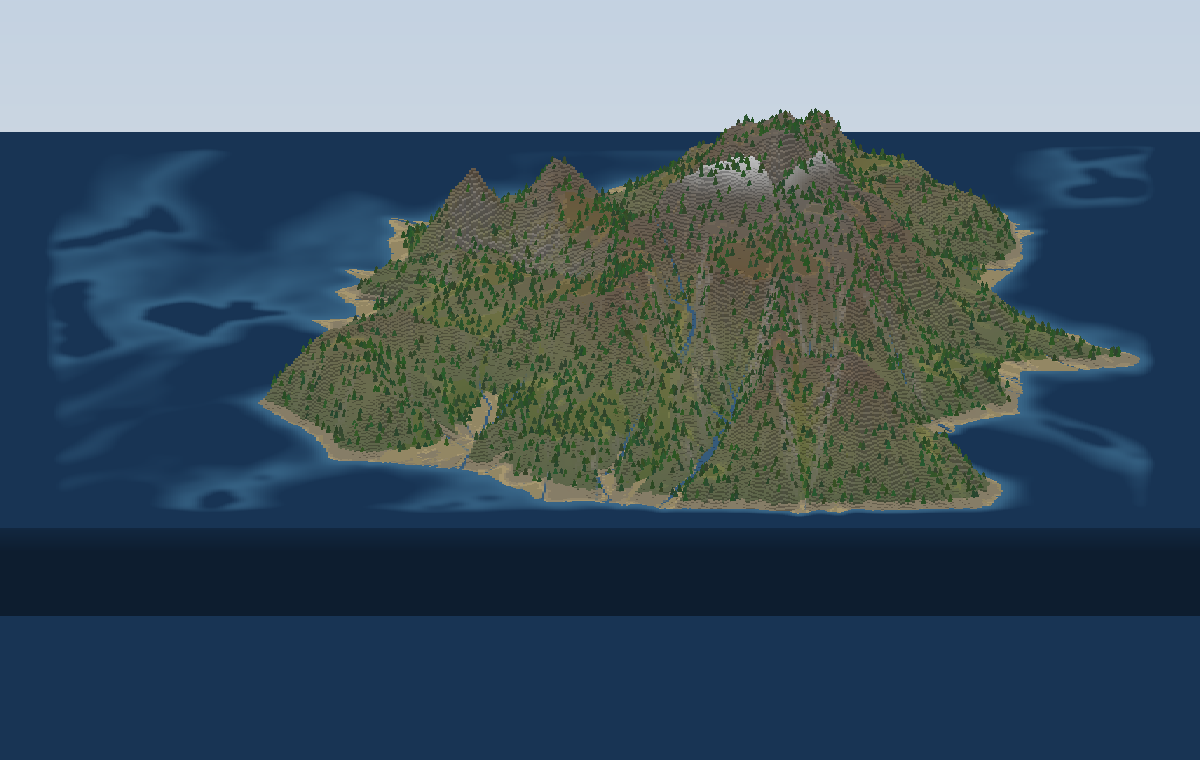
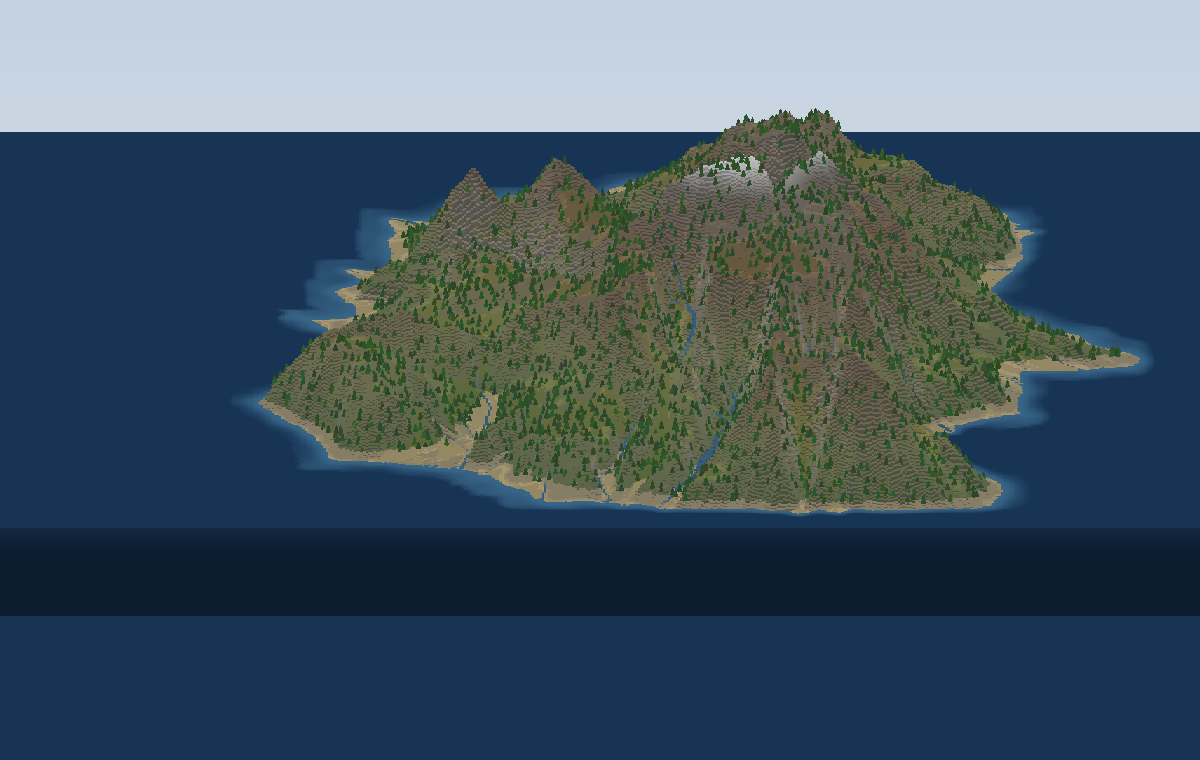
Landfall: sink the offshore shoals, calm the far water, keep the shore breaking
The waves out in open sea were not waves. Surf is decided by depth, so every
drowned islet and shoal — the ones erosion left, and the ones pruneIslands sank
— grew its own ring of foam on a reef that is not there.

The bake now takes the open sea down to real depth. Distance from land comes
from a flood fill, so the shelf that survives is the one actually attached to
the coast; beyond it the floor ramps past anything the surf can see. 129,008
cells went deep on this seed. A test pins it: nothing outside the shelf and its
ramp may still be shallow enough to break on.

The swell now fades between one and a half and four and a half island-widths
out, so the horizon is quiet again and the water that reads is the water near
the island. Whitecaps pull in with it. The shore surf is untouched.

diff --git a/src/themes/landfall/scene.ts b/src/themes/landfall/scene.ts
@@ -378,11 +378,14 @@ export function createScene(
          // flatten into the beach, or the swell saws through the sand
          float shoal = smoothstep(0.0, 0.05, depth);
          // and fade out long before the grid runs coarse
-         float reach = 1.0 - smoothstep(uPlane * 4.0, uPlane * 9.0, length(wp.xz));
+         // Calm in the true distance. Carrying the swell all the way out made
+         // the whole ocean restless; the water that reads is the water near the
+         // island, and the horizon is better left quiet.
+         float reach = 1.0 - smoothstep(uPlane * 1.8, uPlane * 4.5, length(wp.xz));
          vWave = swell(wp.xz, uTime) * shoal * reach;
          // whitecaps only where the grid is fine enough to carry them; further
          // out the crests alias across huge triangles and read as static litter
-         vNear = 1.0 - smoothstep(uPlane * 3.0, uPlane * 7.0, length(wp.xz));
+         vNear = 1.0 - smoothstep(uPlane * 1.4, uPlane * 4.0, length(wp.xz));
          // the plane is rotated flat, so local +Z is world up
          transformed.z += vWave * uAmp;`,
       )
